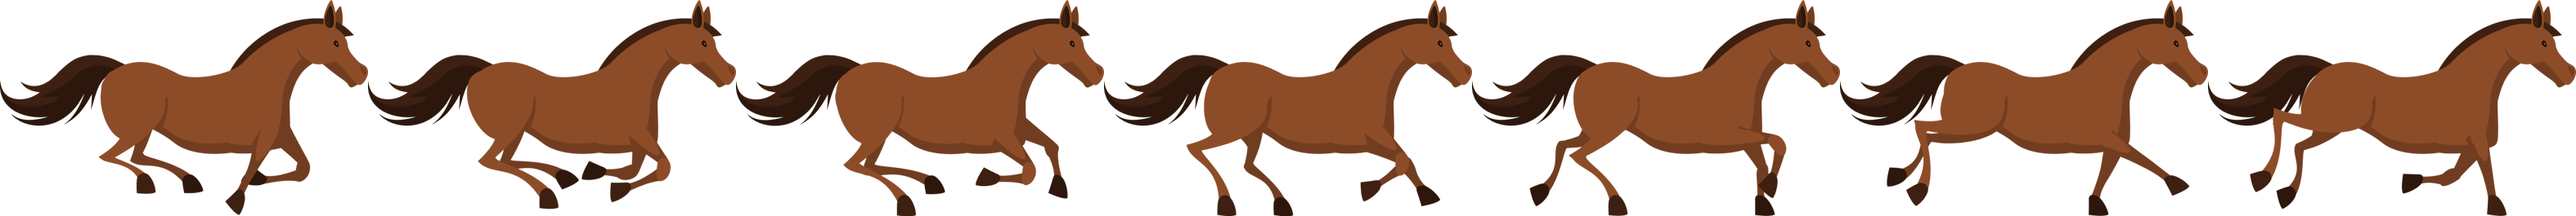
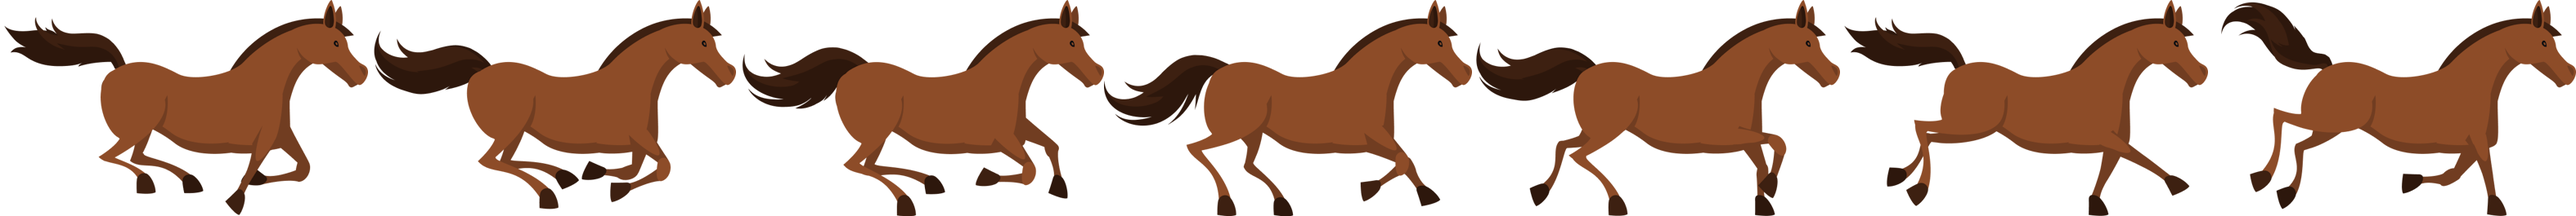
changes

diff --git a/src/scripts/components/Opponent.ts b/src/scripts/components/Opponent.ts
@@ -2,6 +2,8 @@ import Game from '../scenes/Game';
 import Session from '../data/Session';
 import Settings from '../data/Settings';
 
+const HORSEMAN_INDENT = 20;
+const PLACE_INDENT = 75;
 const DIRT_ALPHA = .7;
 
 class Opponent extends Phaser.Physics.Arcade.Sprite {
@@ -31,8 +33,14 @@ class Opponent extends Phaser.Physics.Arcade.Sprite {
     this.scene.add.existing(this);
     this.scene.physics.add.existing(this);
     this.scene.opponents.add(this);
-    this._horseman = this.scene.add.sprite(this.getBounds().centerX + 46, this.getBounds().top + 57, 'player-' + Phaser.Math.Between(1, 5));
-    this._placeIcon = this.scene.add.sprite(this.getBounds().centerX + 75, this._horseman.getBounds().top - 20, 'opponent-place').setOrigin(.5, 1).setDepth(this.depth).setAlpha(0);
+    this._horseman = this.scene.add.sprite(this.getBounds().centerX + HORSEMAN_INDENT, this.getBounds().top + 57, 'player-' + Phaser.Math.Between(1, 5));
+    this._horseman.anims.create({
+      key: this._horseman.texture.key,
+      frames: this.anims.generateFrameNumbers(this._horseman.texture.key, { start: 0, end: 3 }),
+      frameRate: (7 + this._level) * .66,
+      repeat: -1
+    });
+    this._placeIcon = this.scene.add.sprite(this.getBounds().centerX + PLACE_INDENT, this._horseman.getBounds().top - 20, 'opponent-place').setOrigin(.5, 1).setDepth(this.depth).setAlpha(0);
     this._placeText = this.scene.add.text(this._placeIcon.getBounds().centerX, this._placeIcon.getBounds().top + 10, this._getPlace().toString(), {
       font: '40px geometria_bold',
       color: '#A6192E'
@@ -84,13 +92,14 @@ class Opponent extends Phaser.Physics.Arcade.Sprite {
     if (!Session.isStarted()) return;
     super.preUpdate(time, delta);
     this.anims.play(this.texture.key, true);
+    this._horseman.anims.play(this._horseman.texture.key, true);
     this._setPlace();
     this._distance += this._getSpeed();
     const distance = Session.getDistance() - this._distance;
     const indent = distance * Settings.co;
     this.setX(this.scene.player.x - indent);
-    this._horseman.setX(this.getBounds().centerX + 46);
-    this._placeIcon.setX(this.getBounds().centerX + 75);
+    this._horseman.setX(this.getBounds().centerX + HORSEMAN_INDENT);
+    this._placeIcon.setX(this.getBounds().centerX + PLACE_INDENT);
     this._placeText.setX(this._placeIcon.x);
     const place = this._getPlace().toString();
     place !== this._placeText.text && this._placeText.setText(place);

diff --git a/src/scripts/components/Player.ts b/src/scripts/components/Player.ts
@@ -2,6 +2,8 @@ import Game from '../scenes/Game';
 import Session from '../data/Session';
 import User from '../data/User';
 
+const HORSEMAN_INDENT = 20;
+const PLACE_INDENT = 75;
 const DIRT_ALPHA = .7;
 const FLASH_ALPHA = .5;
 
@@ -28,9 +30,15 @@ class Player extends Phaser.Physics.Arcade.Sprite {
     this.setDepth(1);
     this.scene.add.existing(this);
     this.scene.physics.add.existing(this);
-    this._horseman = this.scene.add.sprite(this.getBounds().centerX + 46, this.getBounds().top + 57, 'player-' + User.getEquipmentActive());
+    this._horseman = this.scene.add.sprite(this.getBounds().centerX + HORSEMAN_INDENT, this.getBounds().top + 57, 'player-' + User.getEquipmentActive());
     this._horseman.setDepth(this.depth);
-    this._placeIcon = this.scene.add.sprite(this.getBounds().centerX + 75, this._horseman.getBounds().top - 20, 'player-place').setOrigin(.5, 1).setDepth(this.depth).setAlpha(0);
+    this._horseman.anims.create({
+      key: 'player-' + User.getEquipmentActive(),
+      frames: this.anims.generateFrameNumbers('player-' + User.getEquipmentActive(), { start: 0, end: 3 }),
+      frameRate: 12,
+      repeat: -1
+    });
+    this._placeIcon = this.scene.add.sprite(this.getBounds().centerX + PLACE_INDENT, this._horseman.getBounds().top - 20, 'player-place').setOrigin(.5, 1).setDepth(this.depth).setAlpha(0);
     this._placeText = this.scene.add.text(this._placeIcon.getBounds().centerX, this._placeIcon.getBounds().top + 10, this.getPlace().toString(), {
       font: '40px geometria_bold',
       color: '#EFDD00'
@@ -77,10 +85,12 @@ class Player extends Phaser.Physics.Arcade.Sprite {
     super.preUpdate(time, delta);
     const msPerFrame = 140 - Math.round(Session.getSpeed() * .6);
     this.anims.msPerFrame = msPerFrame;
+    this._horseman.anims.msPerFrame = msPerFrame * 1.5;
     this.anims.play('horse-' + User.getHorseActive(), true);
+    this._horseman.anims.play('player-' + User.getEquipmentActive(), true);
     this._setPlace();
-    this._horseman.setX(this.getBounds().centerX + 46);
-    this._placeIcon.setX(this.getBounds().centerX + 75);
+    this._horseman.setX(this.getBounds().centerX + HORSEMAN_INDENT);
+    this._placeIcon.setX(this.getBounds().centerX + PLACE_INDENT);
     this._placeText.setX(this._placeIcon.x);
     const place = this.getPlace().toString();
     place !== this._placeText.text && this._placeText.setText(place);

diff --git a/src/scripts/data/PreloadConfig.ts b/src/scripts/data/PreloadConfig.ts
@@ -66,6 +66,7 @@ import mainHorse from '../../assets/images/main-horse.png';
 import lightBottom from '../../assets/images/light-bottom.png';
 import lightMiddle from '../../assets/images/light-middle.png';
 import lightTop from '../../assets/images/light-top.png';
+import tap from '../../assets/images/tap.png';
 
 import win13 from '../../assets/sounds/win-1-3.mp3';
 import win45 from '../../assets/sounds/win-4-5.mp3';
@@ -124,11 +125,6 @@ class PreloadConfig {
       "fence": fence,
       "score-bar": scoreBar,
       "balance-bar": balanceBar,
-      "player-1": player1,
-      "player-2": player2,
-      "player-3": player3,
-      "player-4": player4,
-      "player-5": player5,
       "finish": finish,
       "opponent-place": opponentPlace,
       "player-place": playerPlace,
@@ -145,6 +141,7 @@ class PreloadConfig {
       "light-bottom": lightBottom,
       "light-middle": lightMiddle,
       "light-top": lightTop,
+      "tap": tap,
 
     },
     "spritesheets": {
@@ -172,6 +169,31 @@ class PreloadConfig {
         asset: horse5,
         width: 450,
         height: 265
+      },
+      "player-1": {
+        asset: player1,
+        width: 396,
+        height: 212
+      },
+      "player-2": {
+        asset: player2,
+        width: 396,
+        height: 212
+      },
+      "player-3": {
+        asset: player3,
+        width: 396,
+        height: 212
+      },
+      "player-4": {
+        asset: player4,
+        width: 396,
+        height: 212
+      },
+      "player-5": {
+        asset: player5,
+        width: 396,
+        height: 212
       },
     },
     "sounds": {

diff --git a/src/scripts/actions/GameActions.ts b/src/scripts/actions/GameActions.ts
@@ -15,6 +15,7 @@ import Lap from '../components/Lap';
 import Coin from '../components/Coin';
 import Booster from '../components/Booster';
 import { screen, typeObject } from '../types/enums';
+import Tap from '../components/Tap';
 
 const MIN_SPEED = 30;
 
@@ -204,9 +205,10 @@ class GameActions {
     this._scene.scene.start('UI');
   }
 
-  private _press(): void {
+  private _press(pointer: Phaser.Input.Pointer): void {
     if (Session.isOver()) return;
     if (!Session.isStarted()) return;
+    Settings.isMobile() && new Tap(this._scene, pointer.worldX, pointer.worldY);
     const e = User.getEquipmentActive();
     const max = Settings.getMaxSpeed();
     const points = e === 5 ? 12 : e === 4 ? 11 : e === 3 ? 10 : e === 2 ? 9 : 8;
@@ -268,7 +270,7 @@ class GameActions {
         const booster = this._scene.boosters.getLength() === 0;
 
         if (type === 'obstacle') {
-          booster && new Booster(this._scene, type);
+          Session.getAcceleration() === 0 && booster && new Booster(this._scene, type);
         } else {
           time && booster && new Booster(this._scene, type);
         }

diff --git a/src/scripts/components/Booster.ts b/src/scripts/components/Booster.ts
@@ -53,8 +53,8 @@ class Booster extends Phaser.Physics.Arcade.Sprite {
     const { height } = this.scene.cameras.main;
     if (this._type === 'acceleration') return height - 340;
     if (this._type === 'shield') return height - 340;
-    if (this._type === 'dirt') return height - 180;
-    if (this._type === 'obstacle') return height - 180;
+    if (this._type === 'dirt') return height - 189;
+    if (this._type === 'obstacle') return height - 187;
   }
 
   public getType(): typeObject {

diff --git a/src/scripts/components/Tap.ts b/src/scripts/components/Tap.ts
@@ -1,0 +1,20 @@
+class Tap extends Phaser.GameObjects.Sprite {
+  constructor(scene: Phaser.Scene, x: number, y: number) {
+    super(scene, x, y, 'tap');
+    this._build();
+  }
+
+  private _build(): void {
+    this.setDepth(3);
+    this.scene.add.existing(this);
+    this.scene.add.tween({
+      targets: this,
+      alpha: 0,
+      scale: .1,
+      duration: 500,
+      onComplete: this.destroy.bind(this)
+    });
+  }
+}
+
+export default Tap;
